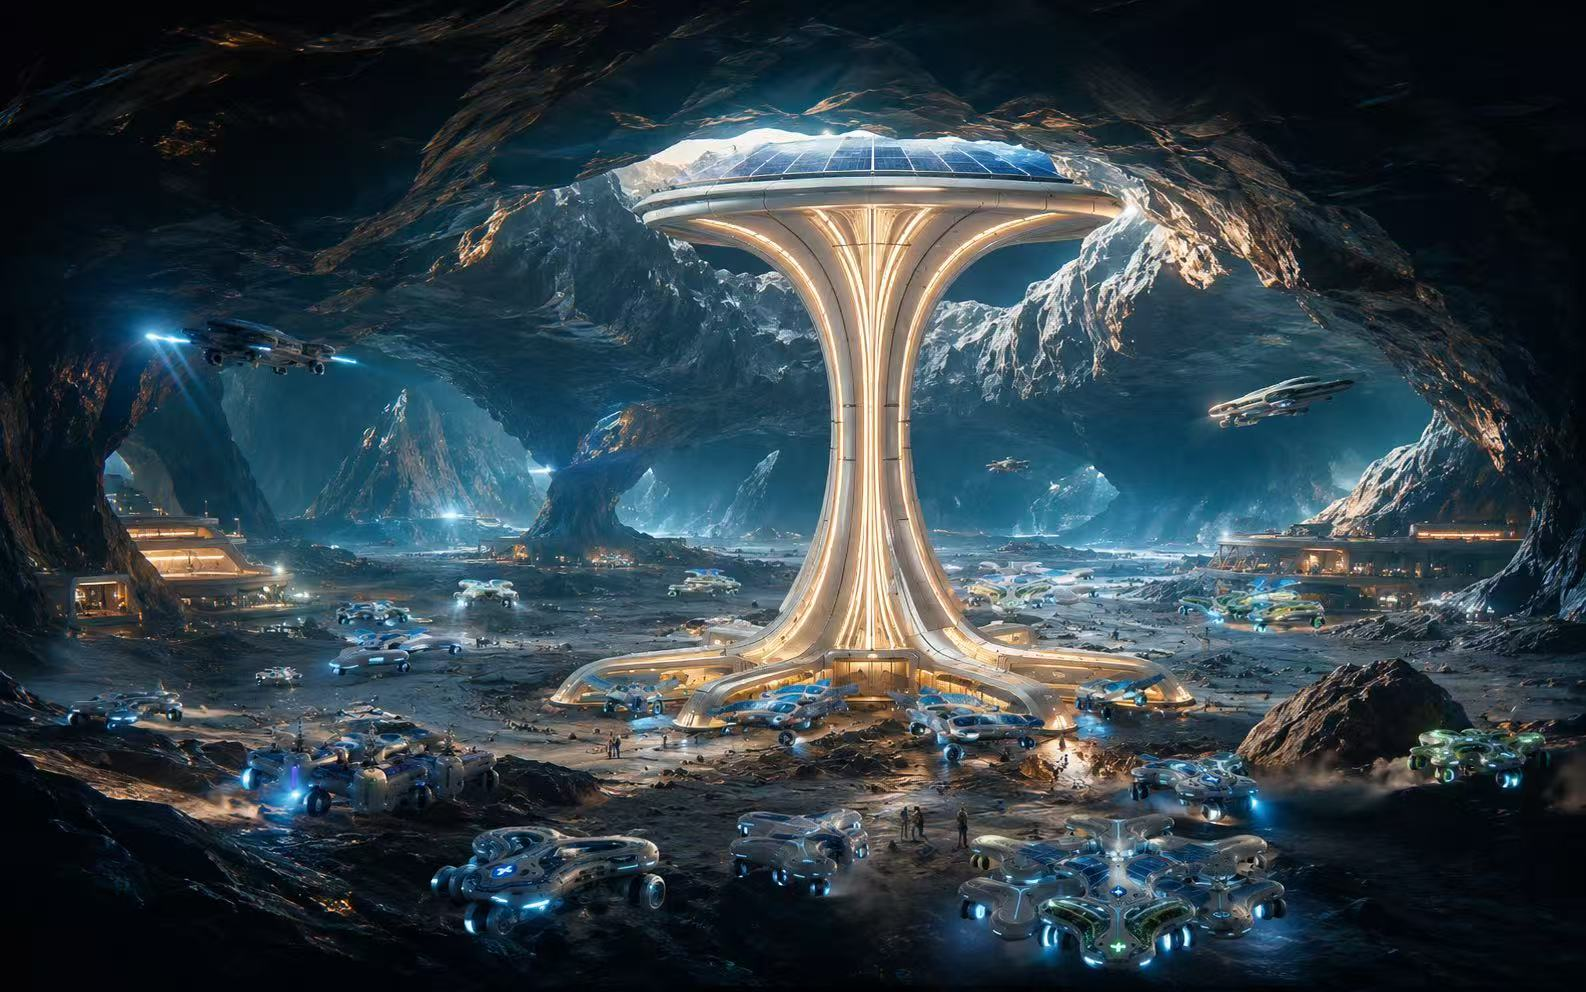
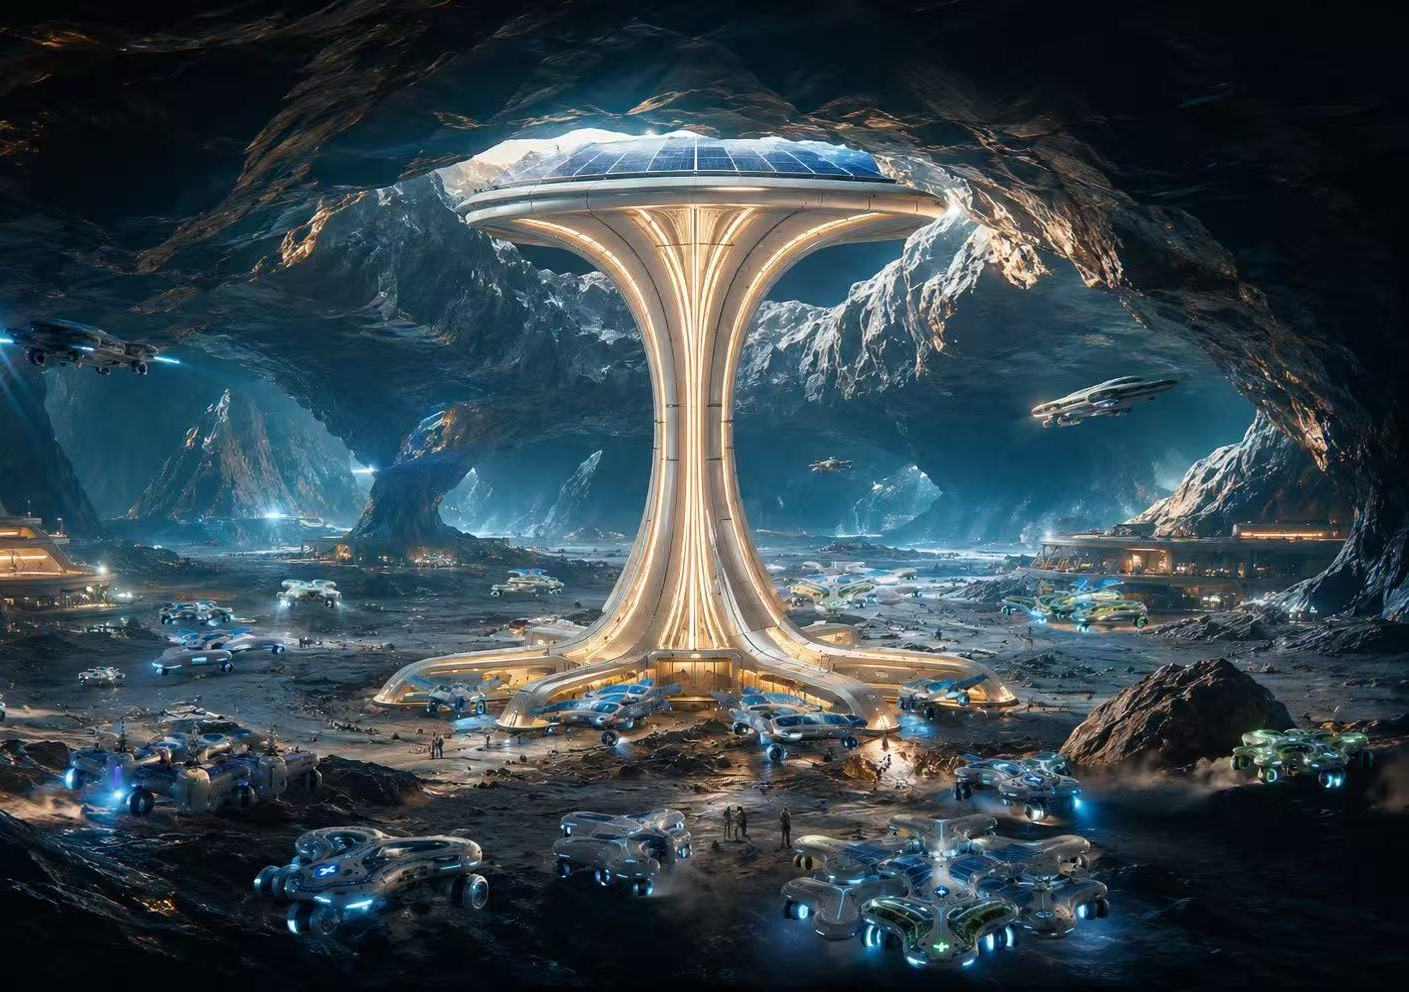
feat: Update styles and assets for enhanced UI and performance; add preload for circus-tent image

diff --git a/assets/my-moon-overlay.css b/assets/my-moon-overlay.css
@@ -5,15 +5,98 @@
   [PROTOCOL]: 变更时更新此头部，然后检查 AGENTS.md
 */
 :root {
-  --moon-panel: rgba(11, 16, 17, 0.84);
-  --moon-panel-soft: rgba(18, 24, 26, 0.72);
-  --moon-line: rgba(230, 242, 230, 0.15);
-  --moon-ink: #f4f1e8;
-  --moon-muted: #aab2a1;
-  --moon-green: #89d8a8;
-  --moon-blue: #87b8ff;
-  --moon-amber: #f8bc58;
-  --moon-red: #ff7665;
+  --moon-panel: rgba(8, 18, 28, 0.84);
+  --moon-panel-soft: rgba(13, 24, 36, 0.78);
+  --moon-line: rgba(151, 197, 232, 0.18);
+  --moon-ink: #eaf4ff;
+  --moon-muted: #95aec4;
+  --moon-green: #75d0cf;
+  --moon-blue: #7fc8ff;
+  --moon-amber: #f2c67a;
+  --moon-red: #ff9a8e;
+  --moon-shadow: 0 24px 80px rgba(1, 9, 18, 0.42);
+}
+
+html,
+body,
+#root {
+  background:
+    linear-gradient(rgba(3, 10, 18, 0.34), rgba(3, 10, 18, 0.34)),
+    radial-gradient(circle at 50% 24%, rgba(251, 208, 122, 0.24), transparent 22%),
+    radial-gradient(circle at 18% 72%, rgba(96, 180, 255, 0.18), transparent 26%),
+    radial-gradient(circle at 84% 70%, rgba(96, 180, 255, 0.12), transparent 24%),
+    url("./images/circus-tent.png") center / cover no-repeat fixed !important;
+  background-color: #09111b !important;
+}
+
+.loading-overlay,
+.scene-fallback {
+  background:
+    linear-gradient(rgba(3, 10, 18, 0.34), rgba(3, 10, 18, 0.34)),
+    radial-gradient(circle at 50% 24%, rgba(251, 208, 122, 0.24), transparent 22%),
+    radial-gradient(circle at 18% 72%, rgba(96, 180, 255, 0.18), transparent 26%),
+    radial-gradient(circle at 84% 70%, rgba(96, 180, 255, 0.12), transparent 24%),
+    url("./images/circus-tent.png") center / cover no-repeat !important;
+}
+
+.loading-overlay::before {
+  display: block !important;
+  background:
+    linear-gradient(135deg, rgba(20, 38, 58, 0.34), rgba(6, 12, 24, 0.16)),
+    radial-gradient(circle at 50% 50%, transparent 18%, rgba(127, 200, 255, 0.1) 44%, transparent 70%) !important;
+  mix-blend-mode: screen;
+  opacity: 0.92;
+}
+
+.loading-card {
+  background:
+    linear-gradient(145deg, rgba(8, 20, 32, 0.9), rgba(11, 29, 44, 0.82)) !important;
+  border: 1px solid rgba(130, 194, 236, 0.18) !important;
+  box-shadow: var(--moon-shadow) !important;
+  color: var(--moon-ink) !important;
+}
+
+.loading-kicker {
+  color: var(--moon-amber) !important;
+}
+
+.loading-card p {
+  color: var(--moon-muted) !important;
+}
+
+.loading-track {
+  background: rgba(255, 255, 255, 0.1) !important;
+}
+
+.loading-track span {
+  background: linear-gradient(90deg, #75d0cf, #7fc8ff, #f2c67a) !important;
+}
+
+.loading-shader-canvas {
+  display: none !important;
+}
+
+.modal-backdrop {
+  background: rgba(4, 10, 18, 0.56) !important;
+}
+
+.modal-panel,
+.modal-model-image {
+  background:
+    linear-gradient(155deg, rgba(7, 18, 30, 0.96), rgba(12, 27, 43, 0.92)) !important;
+  color: var(--moon-ink) !important;
+  box-shadow: var(--moon-shadow) !important;
+}
+
+.modal-close {
+  background: rgba(17, 35, 52, 0.88) !important;
+  color: var(--moon-ink) !important;
+  border-color: rgba(130, 194, 236, 0.18) !important;
+}
+
+.model-image-frame {
+  border-color: rgba(130, 194, 236, 0.16) !important;
+  box-shadow: inset 0 0 0 1px rgba(255, 255, 255, 0.08);
 }
 
 .moon-ai-shell {
@@ -27,7 +110,7 @@
 .moon-ai-launcher,
 .moon-ai-dashboard button {
   border: 1px solid var(--moon-line);
-  background: rgba(245, 247, 236, 0.08);
+  background: linear-gradient(135deg, rgba(9, 22, 35, 0.92), rgba(15, 34, 52, 0.82));
   color: var(--moon-ink);
   cursor: pointer;
 }
@@ -43,6 +126,7 @@
   font-size: 12px;
   font-weight: 800;
   backdrop-filter: blur(14px);
+  box-shadow: 0 10px 30px rgba(88, 55, 49, 0.16);
 }
 
 .moon-ai-dashboard {
@@ -66,9 +150,12 @@
 .moon-ai-strip {
   pointer-events: auto;
   border: 1px solid var(--moon-line);
-  background: var(--moon-panel);
+  background:
+    linear-gradient(160deg, rgba(8, 18, 30, 0.92), rgba(13, 28, 44, 0.86)),
+    var(--moon-panel);
   backdrop-filter: blur(16px);
   color: var(--moon-ink);
+  box-shadow: var(--moon-shadow);
 }
 
 .moon-ai-panel {
@@ -121,7 +208,7 @@
 
 .moon-ai-metric {
   border: 1px solid var(--moon-line);
-  background: var(--moon-panel-soft);
+  background: linear-gradient(145deg, rgba(12, 26, 39, 0.82), rgba(15, 35, 54, 0.72));
   padding: 14px;
 }
 
@@ -173,6 +260,7 @@
 
 .moon-ai-chip {
   border: 1px solid var(--moon-line);
+  background: rgba(15, 34, 52, 0.72);
   padding: 8px 10px;
   font-size: 12px;
   color: var(--moon-green);
@@ -229,7 +317,7 @@
   gap: 8px;
   margin-top: 14px;
   border: 1px solid var(--moon-line);
-  background: rgba(255, 255, 255, 0.035);
+  background: linear-gradient(135deg, rgba(10, 23, 37, 0.78), rgba(14, 31, 48, 0.64));
   padding: 10px;
 }
 
@@ -276,7 +364,7 @@
 
 .moon-ai-log li {
   color: var(--moon-ink);
-  background: rgba(255, 255, 255, 0.04);
+  background: rgba(18, 34, 49, 0.62);
   border-left: 2px solid var(--moon-line);
   padding: 10px 12px;
   font-size: 13px;

diff --git a/index.html b/index.html
@@ -14,6 +14,12 @@
       content="我的月球：沿用原有 3D 可交互前端，并叠加 AI 生命支持调度系统。"
     />
     <title>龙铠Loongarm | AI驱动的模块化月球家园DIY计划</title>
+    <link
+      rel="preload"
+      as="image"
+      href="./assets/images/circus-tent.png"
+      imagesrcset="./assets/images/circus-tent.png 1x"
+    />
     <link rel="stylesheet" href="./assets/index-Coy5B0kA.css" />
     <link rel="stylesheet" href="./assets/my-moon-overlay.css" />
   </head>

diff --git a/assets/index-BezMjCv7.js b/assets/index-BezMjCv7.js
@@ -1,5 +1,5 @@
 const __vite__mapDeps=(i,m=__vite__mapDeps,d=(m.f||(m.f=["./SceneRoot-DLjunhxr.js","./rolldown-runtime-BYbx6iT9.js","./vendor-physics-BFHFn32j.js","./vendor-Bs52F_9B.js","./vendor-motion-BToyP3Bx.js","./vendor-three-CGyGFSxX.js","./vendor-react-BTLn-WVn.js"])))=>i.map(i=>d[i]);
-import{a as e}from"./rolldown-runtime-BYbx6iT9.js";import{ot as t}from"./vendor-Bs52F_9B.js";import{Ot as n,f as r,l as i,s as a,u as o}from"./vendor-physics-BFHFn32j.js";import{n as s}from"./vendor-react-BTLn-WVn.js";import{n as c,r as l,t as u}from"./vendor-motion-BToyP3Bx.js";import{i as d}from"./vendor-three-CGyGFSxX.js";(function(){let e=document.createElement(`link`).relList;if(e&&e.supports&&e.supports(`modulepreload`))return;for(let e of document.querySelectorAll(`link[rel="modulepreload"]`))n(e);new MutationObserver(e=>{for(let t of e)if(t.type===`childList`)for(let e of t.addedNodes)e.tagName===`LINK`&&e.rel===`modulepreload`&&n(e)}).observe(document,{childList:!0,subtree:!0});function t(e){let t={};return e.integrity&&(t.integrity=e.integrity),e.referrerPolicy&&(t.referrerPolicy=e.referrerPolicy),e.crossOrigin===`use-credentials`?t.credentials=`include`:e.crossOrigin===`anonymous`?t.credentials=`omit`:t.credentials=`same-origin`,t}function n(e){if(e.ep)return;e.ep=!0;let n=t(e);fetch(e.href,n)}})();var f=e(s(),1),p=e(t(),1),m=l();function h({exploredIds:e,targets:t}){let[n,r]=(0,p.useState)(!1),i=e.size,a=t.length,o=Math.max(a,1),s=Math.min(100,Math.round(i/o*100)),c=(0,p.useMemo)(()=>t.filter(t=>e.has(t.id)),[e,t]),l=(0,p.useMemo)(()=>t.filter(t=>!e.has(t.id)),[e,t]);return(0,m.jsxs)(`aside`,{className:n?`achievement-hud is-expanded`:`achievement-hud`,"aria-label":`探索进度`,children:[(0,m.jsxs)(`button`,{type:`button`,onClick:()=>r(e=>!e),children:[(0,m.jsx)(`span`,{children:`探索`}),(0,m.jsxs)(`strong`,{children:[i,`/`,o]}),(0,m.jsx)(`i`,{children:(0,m.jsx)(`b`,{style:{width:`${s}%`}})})]}),n?(0,m.jsxs)(`div`,{className:`achievement-details`,children:[(0,m.jsxs)(`header`,{className:`achievement-details-header`,children:[(0,m.jsx)(`span`,{children:`Exploration Log`}),(0,m.jsxs)(`strong`,{children:[s,`%`]})]}),(0,m.jsxs)(`div`,{className:`achievement-section-grid`,children:[(0,m.jsxs)(`section`,{children:[(0,m.jsx)(`h3`,{children:`已探索`}),c.length?(0,m.jsx)(`ul`,{children:c.map(e=>(0,m.jsx)(`li`,{children:e.label},e.id))}):(0,m.jsx)(`p`,{children:`还没有记录。`})]}),(0,m.jsxs)(`section`,{children:[(0,m.jsx)(`h3`,{children:`未探索`}),(0,m.jsx)(`ul`,{children:l.map(e=>(0,m.jsx)(`li`,{children:e.label},e.id))})]})]})]}):null]})}var g=(void 0)?.trim(),_=`https://static.cloudflareinsights.com/beacon.min.js`;function v(){return(0,p.useEffect)(()=>{if(!g)return;let e=`cloudflare-web-analytics`;if(document.getElementById(e))return;let t=document.createElement(`script`);return t.id=e,t.defer=!0,t.src=_,t.dataset.cfBeacon=JSON.stringify({token:g}),document.head.appendChild(t),()=>{t.remove()}},[]),null}function ee({target:e,nudge:t}){let n=t||(e?e.modelName?`按 E 或点击，查看「${e.label}」图片`:e.type===`guide`?`按 E 或点击，与「${e.label}」对接`:`按 E 或点击，与「${e.label}」互动`:null),r=t?`再靠近一点`:e?e.modelName?`点右下角查看`:e.type===`guide`?`点右下角对话`:`点右下角互动`:null;return(0,m.jsxs)(`aside`,{className:e||t?`interaction-hint is-ready`:`interaction-hint`,children:[(0,m.jsx)(`span`,{className:`hint-dot`}),(0,m.jsx)(`p`,{children:n?(0,m.jsxs)(m.Fragment,{children:[(0,m.jsx)(`span`,{className:`desktop-control-copy`,children:n}),(0,m.jsx)(`span`,{className:`mobile-control-copy`,children:r})]}):(0,m.jsxs)(m.Fragment,{children:[(0,m.jsxs)(`span`,{className:`movement-hint desktop-control-copy`,children:[(0,m.jsx)(`span`,{children:`键盘`}),(0,m.jsxs)(`span`,{className:`movement-keys`,"aria-label":`W A S D`,children:[(0,m.jsx)(`kbd`,{children:`W`}),(0,m.jsx)(`kbd`,{children:`A`}),(0,m.jsx)(`kbd`,{children:`S`}),(0,m.jsx)(`kbd`,{children:`D`})]}),(0,m.jsx)(`span`,{children:`控制行走；其他独立仓，出现互动提示`})]}),(0,m.jsx)(`span`,{className:`movement-hint mobile-control-copy`,children:(0,m.jsx)(`span`,{children:`摇杆移动 · 右侧看 · 靠近互动`})})]})})]})}var y=1950;function b(){let{active:e,progress:t}=d(),[n,r]=(0,p.useState)(!0),[i,a]=(0,p.useState)(0),o=!e&&t>=100;return(0,p.useEffect)(()=>{if(!o)return;let e=0,t=0,n=performance.now()+120,i=o=>{let s=Math.min(1,Math.max(0,(o-n)/y));if(a(1-(1-s)**1.7),s<1){e=window.requestAnimationFrame(i);return}t=window.setTimeout(()=>r(!1),180)};return e=window.requestAnimationFrame(i),()=>{window.cancelAnimationFrame(e),window.clearTimeout(t)}},[o]),n?(0,m.jsxs)(`div`,{className:o?`loading-overlay is-dissolving`:`loading-overlay`,children:[(0,m.jsx)(x,{progress:i}),(0,m.jsxs)(u.div,{className:`loading-card`,animate:o?{opacity:0,scale:.96,y:-18}:{opacity:1,scale:1,y:[0,-8,0]},transition:{opacity:{duration:.28},scale:{duration:.28},y:o?{duration:.28}:{duration:2.4,repeat:1/0,ease:`easeInOut`}},children:[(0,m.jsx)(`span`,{className:`loading-kicker`,children:`欢迎来到我们的月球`}),(0,m.jsxs)(`strong`,{children:[Math.round(t),`%`]}),(0,m.jsx)(`div`,{className:`loading-track`,children:(0,m.jsx)(`span`,{style:{width:`${Math.min(t,100)}%`}})}),(0,m.jsx)(`p`,{children:`在这里DIY一个会自己运转的月球家园`})]})]}):null}function x({progress:e}){return(0,m.jsx)(i,{className:`loading-shader-canvas`,camera:{position:[0,0,1],zoom:1},dpr:[1,1.5],gl:{alpha:!0,antialias:!1,powerPreference:`high-performance`},orthographic:!0,children:(0,m.jsx)(S,{progress:e})})}function S({progress:e}){let t=(0,p.useRef)(null),{size:i,viewport:a}=r(),s=(0,p.useMemo)(()=>({uProgress:{value:0},uResolution:{value:new n(1,1)},uTime:{value:0}}),[]);return o(n=>{t.current&&(t.current.uniforms.uProgress.value=e,t.current.uniforms.uTime.value=n.clock.elapsedTime,t.current.uniforms.uResolution.value.set(i.width,i.height))}),(0,m.jsxs)(`mesh`,{scale:[a.width,a.height,1],children:[(0,m.jsx)(`planeGeometry`,{args:[1,1]}),(0,m.jsx)(`shaderMaterial`,{ref:t,depthTest:!1,depthWrite:!1,fragmentShader:w,transparent:!0,uniforms:s,vertexShader:C})]})}var C=`
+import{a as e}from"./rolldown-runtime-BYbx6iT9.js";import{ot as t}from"./vendor-Bs52F_9B.js";import{Ot as n,f as r,l as i,s as a,u as o}from"./vendor-physics-BFHFn32j.js";import{n as s}from"./vendor-react-BTLn-WVn.js";import{n as c,r as l,t as u}from"./vendor-motion-BToyP3Bx.js";import{i as d}from"./vendor-three-CGyGFSxX.js";(function(){let e=document.createElement(`link`).relList;if(e&&e.supports&&e.supports(`modulepreload`))return;for(let e of document.querySelectorAll(`link[rel="modulepreload"]`))n(e);new MutationObserver(e=>{for(let t of e)if(t.type===`childList`)for(let e of t.addedNodes)e.tagName===`LINK`&&e.rel===`modulepreload`&&n(e)}).observe(document,{childList:!0,subtree:!0});function t(e){let t={};return e.integrity&&(t.integrity=e.integrity),e.referrerPolicy&&(t.referrerPolicy=e.referrerPolicy),e.crossOrigin===`use-credentials`?t.credentials=`include`:e.crossOrigin===`anonymous`?t.credentials=`omit`:t.credentials=`same-origin`,t}function n(e){if(e.ep)return;e.ep=!0;let n=t(e);fetch(e.href,n)}})();var f=e(s(),1),p=e(t(),1),m=l();function h({exploredIds:e,targets:t}){let[n,r]=(0,p.useState)(!1),i=e.size,a=t.length,o=Math.max(a,1),s=Math.min(100,Math.round(i/o*100)),c=(0,p.useMemo)(()=>t.filter(t=>e.has(t.id)),[e,t]),l=(0,p.useMemo)(()=>t.filter(t=>!e.has(t.id)),[e,t]);return(0,m.jsxs)(`aside`,{className:n?`achievement-hud is-expanded`:`achievement-hud`,"aria-label":`探索进度`,children:[(0,m.jsxs)(`button`,{type:`button`,onClick:()=>r(e=>!e),children:[(0,m.jsx)(`span`,{children:`探索`}),(0,m.jsxs)(`strong`,{children:[i,`/`,o]}),(0,m.jsx)(`i`,{children:(0,m.jsx)(`b`,{style:{width:`${s}%`}})})]}),n?(0,m.jsxs)(`div`,{className:`achievement-details`,children:[(0,m.jsxs)(`header`,{className:`achievement-details-header`,children:[(0,m.jsx)(`span`,{children:`Exploration Log`}),(0,m.jsxs)(`strong`,{children:[s,`%`]})]}),(0,m.jsxs)(`div`,{className:`achievement-section-grid`,children:[(0,m.jsxs)(`section`,{children:[(0,m.jsx)(`h3`,{children:`已探索`}),c.length?(0,m.jsx)(`ul`,{children:c.map(e=>(0,m.jsx)(`li`,{children:e.label},e.id))}):(0,m.jsx)(`p`,{children:`还没有记录。`})]}),(0,m.jsxs)(`section`,{children:[(0,m.jsx)(`h3`,{children:`未探索`}),(0,m.jsx)(`ul`,{children:l.map(e=>(0,m.jsx)(`li`,{children:e.label},e.id))})]})]})]}):null]})}var g=(void 0)?.trim(),_=`https://static.cloudflareinsights.com/beacon.min.js`;function v(){return(0,p.useEffect)(()=>{if(!g)return;let e=`cloudflare-web-analytics`;if(document.getElementById(e))return;let t=document.createElement(`script`);return t.id=e,t.defer=!0,t.src=_,t.dataset.cfBeacon=JSON.stringify({token:g}),document.head.appendChild(t),()=>{t.remove()}},[]),null}function ee({target:e,nudge:t}){let n=t||(e?e.modelName?`按 E 或点击，查看「${e.label}」图片`:e.type===`guide`?`按 E 或点击，与「${e.label}」对接`:`按 E 或点击，与「${e.label}」互动`:null),r=t?`再靠近一点`:e?e.modelName?`点右下角查看`:e.type===`guide`?`点右下角对话`:`点右下角互动`:null;return(0,m.jsxs)(`aside`,{className:e||t?`interaction-hint is-ready`:`interaction-hint`,children:[(0,m.jsx)(`span`,{className:`hint-dot`}),(0,m.jsx)(`p`,{children:n?(0,m.jsxs)(m.Fragment,{children:[(0,m.jsx)(`span`,{className:`desktop-control-copy`,children:n}),(0,m.jsx)(`span`,{className:`mobile-control-copy`,children:r})]}):(0,m.jsxs)(m.Fragment,{children:[(0,m.jsxs)(`span`,{className:`movement-hint desktop-control-copy`,children:[(0,m.jsx)(`span`,{children:`键盘`}),(0,m.jsxs)(`span`,{className:`movement-keys`,"aria-label":`W A S D`,children:[(0,m.jsx)(`kbd`,{children:`W`}),(0,m.jsx)(`kbd`,{children:`A`}),(0,m.jsx)(`kbd`,{children:`S`}),(0,m.jsx)(`kbd`,{children:`D`})]}),(0,m.jsx)(`span`,{children:`控制行走；其他独立仓，出现互动提示`})]}),(0,m.jsx)(`span`,{className:`movement-hint mobile-control-copy`,children:(0,m.jsx)(`span`,{children:`摇杆移动 · 右侧看 · 靠近互动`})})]})})]})}var y=1950;function b(){let{active:e,progress:t}=d(),[n,r]=(0,p.useState)(!0),[i,a]=(0,p.useState)(0),o=!e&&t>=100;return(0,p.useEffect)(()=>{if(!o)return;let e=0,t=0,n=performance.now()+120,i=o=>{let s=Math.min(1,Math.max(0,(o-n)/y));if(a(1-(1-s)**1.7),s<1){e=window.requestAnimationFrame(i);return}t=window.setTimeout(()=>r(!1),180)};return e=window.requestAnimationFrame(i),()=>{window.cancelAnimationFrame(e),window.clearTimeout(t)}},[o]),n?(0,m.jsxs)(`div`,{className:o?`loading-overlay is-dissolving`:`loading-overlay`,children:[(0,m.jsx)(x,{progress:i}),(0,m.jsxs)(u.div,{className:`loading-card`,animate:o?{opacity:0,scale:.96,y:-18}:{opacity:1,scale:1,y:[0,-8,0]},transition:{opacity:{duration:.28},scale:{duration:.28},y:o?{duration:.28}:{duration:2.4,repeat:1/0,ease:`easeInOut`}},children:[(0,m.jsx)(`span`,{className:`loading-kicker`,children:`欢迎来到Loongarm月球家园`}),(0,m.jsxs)(`strong`,{children:[Math.round(t),`%`]}),(0,m.jsx)(`div`,{className:`loading-track`,children:(0,m.jsx)(`span`,{style:{width:`${Math.min(t,100)}%`}})}),(0,m.jsx)(`p`,{children:`在这里DIY一个会自己运转模块化月球家园`})]})]}):null}function x({progress:e}){return(0,m.jsx)(i,{className:`loading-shader-canvas`,camera:{position:[0,0,1],zoom:1},dpr:[1,1.5],gl:{alpha:!0,antialias:!1,powerPreference:`high-performance`},orthographic:!0,children:(0,m.jsx)(S,{progress:e})})}function S({progress:e}){let t=(0,p.useRef)(null),{size:i,viewport:a}=r(),s=(0,p.useMemo)(()=>({uProgress:{value:0},uResolution:{value:new n(1,1)},uTime:{value:0}}),[]);return o(n=>{t.current&&(t.current.uniforms.uProgress.value=e,t.current.uniforms.uTime.value=n.clock.elapsedTime,t.current.uniforms.uResolution.value.set(i.width,i.height))}),(0,m.jsxs)(`mesh`,{scale:[a.width,a.height,1],children:[(0,m.jsx)(`planeGeometry`,{args:[1,1]}),(0,m.jsx)(`shaderMaterial`,{ref:t,depthTest:!1,depthWrite:!1,fragmentShader:w,transparent:!0,uniforms:s,vertexShader:C})]})}var C=`
   varying vec2 vUv;
 
   void main() {

diff --git a/README.md b/README.md
@@ -39,6 +39,9 @@ moonSmallModuleScale=1.35
 
 ```bash
 cd /Volumes/SSD/code/hyacinth.im-site
+
+npx http-server . -p 4173 -c-1
+
 python3 -m http.server 4173 --bind 127.0.0.1
 ```
 